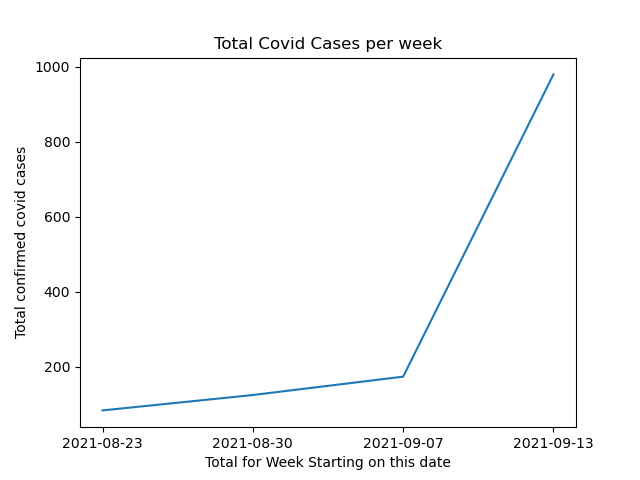
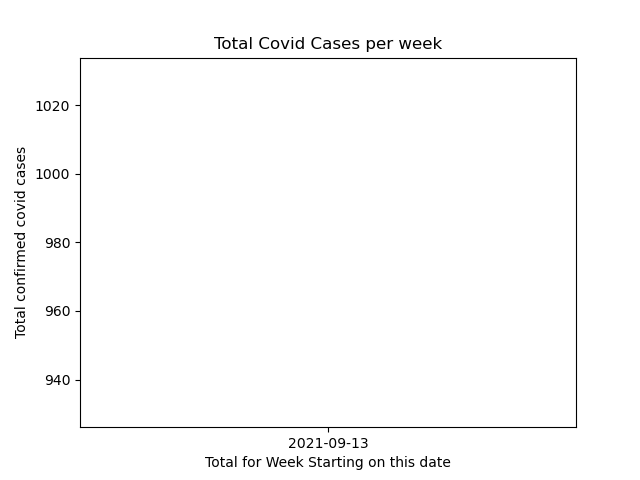
refactor generate cases chart for simplicity and add to workflow.
Now the cases by week chart should be updated automatically.
I also am starting the chart on the 13th.

diff --git a/charts/generate-cases-by-week.py b/charts/generate-cases-by-week.py
@@ -1,5 +1,3 @@
-#!/usr/bin/env python3
-
 import csv
 from datetime import datetime, timedelta
 import re
@@ -11,14 +9,19 @@ from matplotlib import pyplot as plt
 # case we take the first row we find). We then create one data point per week
 # with the sum of all the totals for that week.
 
-# First, create a dictionary indexed to the timestamp for each day with the
-# value set to the total cases that day. This process also parses the
-# date value from the Title field (which will hopefully stay constant).
-massagedDailyData = {}
+# Create a dict indexed to the monday of the week that the date falls in. This
+# is the data we are going to chart. The value is the total number of cases
+# that week.
+weeklyTotals = {}
 
-# The title field include a string like "September 23, 2021".
+# Keep a list of seen dates so we don't count the same date twice.
+seenDates = []
+
+# The title field include a string like "September 23, 2021". That's the
+# creaky way we figure out the date. Here's the regexp to match the
+# date.
 dateMatcher = re.compile('^([A-Za-z]+ [0-9]+, 202[1-9])')
-with open("../csv/confirmed-cases-daily.csv") as csvDataFile:
+with open("./csv/confirmed-cases-daily.csv") as csvDataFile:
     csvReader = csv.reader(csvDataFile)
     for row in csvReader:
         # The date is part of the title and has to be parsed out.
@@ -34,70 +37,47 @@ with open("../csv/confirmed-cases-daily.csv") as csvDataFile:
         else:
             sys.exit("Failed to parse date: {0}".format(date_string))
         date_obj = datetime.strptime(date_string, "%B %d, %Y")
-        ts = date_obj.timestamp()
         # We may have the same date twice, in which case take the first one we encounter.
         # That should be the most recent one.
-        if not ts in massagedDailyData:
-            massagedDailyData[ts] = int(row[1])
+        if not date_obj in seenDates:
+            seenDates.append(date_obj)
 
-# Get a sorted list of the time stamps so, when plotting, we go from earliest
-# to latest (the original data goes from latest to earliest).
-timestamps = list(massagedDailyData.keys())
-timestamps.sort()
+            # What's the date of the start of this week?
+            weekStart = date_obj - timedelta(days=date_obj.weekday())
+            if not weekStart in weeklyTotals:
+                # Initialize this week if it's the first date.
+                weeklyTotals[weekStart] = 0
+            weeklyTotals[weekStart] += int(row[1])
 
-# Now we have a dictionary indexed to a real time stamp. Next we have to
+# Get a sorted list of the weeks, so when plotting, we go from earliest to
+# latest (the original data goes from latest to earliest).
+dates = list(weeklyTotals.keys())
+dates.sort()
+
+# We are never sure if the last week is complete or not. So we
+# always throw it out. It we only show a week the moment we have
+# data for the following week.
+dates.pop()
+
+# Now we have a dictionary indexed to a weekly date object. Next we have to
 # convert that into two lists. One is a list of weeks (identified by the date
 # of the Monday starting the week) and the other is a list of total cases for
 # that entire week.
 week_starting = []
 totals = []
-currentWeek = None
-totalCasesThisWeek = 0
-last_weekday = None
-current_weekday = None
-for ts in timestamps:
-    # Convert the current timestamp to a real date object.
-    date_obj = datetime.fromtimestamp(ts)
+for week_start_date in dates:
+    # We have some data prior to school starting. We're going to throw
+    # that out so we start on September 13th, the monday that school started.
+    chart_start_date = datetime(2021, 9, 13)
+    if week_start_date < chart_start_date:
+        continue
 
-    # Reset the last_weekday variable so we can tell if we have flipped to a
-    # new week.
-    last_weekday = current_weekday
-
-    # Calculate the current weekday - 0 is monday, 7 is sunday.
-    current_weekday = date_obj.weekday()
-
-    # We have to start somewhere. However, if the *beginning* of the data does
-    # not fall on a monday, then we'll have a partial week and the total will be
-    # artifically low. So, we are going to throw out any initial data that happens
-    # before the first monday that data is collected.
-    if currentWeek is None:
-        if current_weekday != 0:
-            # We are at the beginning of the data and it's not a monday. We will throw
-            # out this data so we don't start with a partial week.
-            continue
-        else:
-            # This is finally our first monday. Let's begin.
-            currentWeek = date_obj
-            last_weekday = 0
-
-    # Here check to see if we have flipped from one week to the next week.
-    if last_weekday > current_weekday:
-        # We have cycled through a week and need to set the data for the
-        # previous week and reset our counters.
-        week_starting.append(currentWeek.strftime('%Y-%m-%d'))
-        totals.append(totalCasesThisWeek)
-
-        totalCasesThisWeek = 0
-        currentWeek = date_obj
-
-    totalCasesThisWeek += massagedDailyData[ts]
-
-#print(week_starting)
-#print(totals)
+    week_starting.append(week_start_date.strftime('%Y-%m-%d'))
+    totals.append(weeklyTotals[week_start_date])
 
 plt.plot(week_starting, totals)
 plt.title('Total Covid Cases per week')
 plt.xlabel('Total for Week Starting on this date')
 plt.ylabel('Total confirmed covid cases')
 #plt.show()
-plt.savefig('output/cases-by-week.png')
+plt.savefig('./charts/output/cases-by-week.png')
